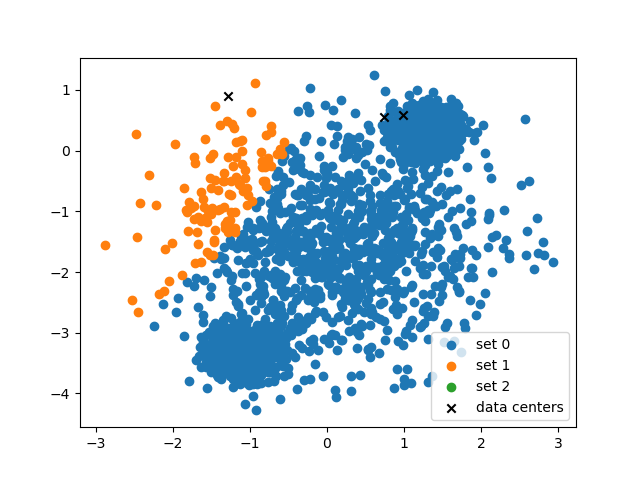
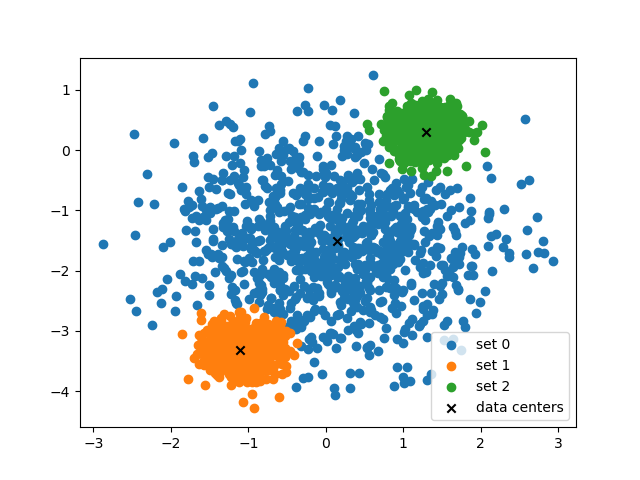
p2 code

diff --git a/a3 2/starter_gmm copy.py b/a3 2/starter_gmm copy.py
@@ -61,7 +61,8 @@ def distanceFunc(X, MU):
         # Calculate the difference between one center mu with all sample
         col = X - ones @ MU[i, :].reshape((MU[i, :].shape[0], 1)).T
         # find the norm
-        pair_dist[:, i] = np.linalg.norm(col, axis = 1)
+        pair_dist[:, i] = np.linalg.norm(col, axis = 1, ord = 1)
+    pair_dist = np.multiply(pair_dist, pair_dist)
     return pair_dist
 
 
@@ -75,42 +76,40 @@ def log_GaussPDF(X, mu, sigma):
     z = distanceFunc(X, mu)
     sigma = torch.Tensor(sigma)
     sigma = sigma.detach().numpy()
-    log_gauss = np.add(np.log(1 / ((2 * np.pi)**(X.shape[1] / 2) * (np.sum(np.exp(sigma)))**(0.5) )), - 0.5 * np.multiply(z * z, (1 / np.exp(sigma)).T))
-    log_gauss = log_gauss
-
-    """
-    z = - z * z / (2 * sigma.T * np.ones((X.shape[0], mu.shape[0])).T)
-    log_gauss = -(z + np.log(1 / (2 * np.pi * sigma)))
-    """
-
+    log_gauss = np.add(-X.shape[1] / 2 * np.log(2 * np.pi) - 0.5 * np.log(np.prod(np.exp(sigma))), - 0.5 * np.multiply(z, (1 / np.exp(sigma)).T))
     return torch.Tensor(log_gauss)
 
 
 def log_posterior(log_PDF, log_pi):
-    
-    log_pi = logsoftmax(torch.exp(log_pi))
-    print(log_pi.shape)
-    pi = torch.exp(log_pi)
-    print(torch.sum(pi))
-    temp = torch.exp(log_PDF)
-    temp = torch.sum(temp, 1).unsqueeze(1)
-    temp = torch.log(temp)
-    post = torch.add(log_PDF, log_pi.T)
-    post = torch.add(post, -temp)
-    return post
     # Input
     # log_PDF: log Gaussian PDF N X K
     # log_pi: K X 1
 
     # Outputs
     # log_post: N X K
+    real_log_pi = logsoftmax(torch.exp(log_pi))
+    post = torch.add(log_PDF, real_log_pi.T)
+    # denominator = torch.sum(torch.exp(post), dim=1)
+    # post = torch.add(post.T, - torch.log(denominator))
+    # post = post.T
+    # print(torch.sum(torch.exp(log_pi.T), dim=1))
+    return post
 
-def posterior_loss(log_posterior):
-    loss = torch.exp(log_posterior)
-    loss = torch.sum(log_posterior, dim=1)
-    loss = torch.log(log_posterior)
-    loss = torch.sum(log_posterior)
-    return loss
+def posterior_loss(X, mu, sigma, log_pi):
+    """
+    log_PDF = log_GaussPDF(X, mu, sigma)
+    loss = torch.add(log_PDF, log_pi.T)
+    loss = - torch.sum(loss)
+    """
+    log_PDF = log_GaussPDF(X, mu, sigma)
+    log_post = log_posterior(log_PDF, log_pi)
+
+    loss = torch.exp(log_post)
+    loss = torch.sum(loss, dim=1)
+    loss = torch.log(loss)
+    loss = torch.sum(loss)
+    loss = - loss
+    return loss 
 
 def one_K_cluster(x_matrix, k=3):
 
@@ -127,10 +126,10 @@ def one_K_cluster(x_matrix, k=3):
     s_avg = torch.zeros((k, 1))
     s_std = torch.ones(k, 1)
     sigma = torch.normal(s_avg, s_std)
-    sigma = torch.exp(sigma)
-    pi = torch.normal(s_avg, s_std)
-    pi = softmax(pi)
-    log_pi = torch.log(pi)
+    sigma = torch.ones(k, 1)
+    pi = torch.ones(k, 1)
+    pi = pi / k
+    log_pi = logsoftmax(pi)
 
     MU.requires_grad = True
     sigma.requires_grad = True
@@ -140,16 +139,7 @@ def one_K_cluster(x_matrix, k=3):
     data = torch.tensor(data)
 
     # set up optimizer
-    optimizer = torch.optim.Adam(
-        [
-            {
-                "params": [MU, sigma, log_pi],
-                "lr": 0.1,
-                "betas": (0.9, 0.99),
-                "eps": 1 * 10 ** -5,
-            }
-        ]
-    )
+    optimizer = torch.optim.Adam([MU, sigma, log_pi], lr=0.1)
 
     losses = []
     for epoch in range(0, num_of_epochs):
@@ -161,29 +151,32 @@ def one_K_cluster(x_matrix, k=3):
         log_pi = torch.log(pi)
         log_pi.requires_grad = True
         """
-        optimizer.zero_grad()  # elimiate the gradient from last iteration
-        gaussPDF = log_GaussPDF(data, MU, sigma)
-        log_post = log_posterior(gaussPDF, log_pi)  # calculate loss
-        loss = posterior_loss(log_post)
+        optimizer.zero_grad()  # eliminate the gradient from last iteration
+        loss = posterior_loss(data, MU, sigma, log_pi)
         loss.backward()  # backprop gradient
+        print(loss)
         optimizer.step()  # update
         losses.append(loss.item())
     # plot_losses([losses], ["K = " + str(k)], save_name="1_1_loss")
+    
+    return [MU, sigma, log_pi]
 
-    return [MU, sigma, pi]
 
-
-def calculateOwnerShipPercentage(X, MU, sigma, pi):
+def calculateOwnerShipPercentage(X, MU, sigma, log_pi):
     k = MU.shape[0]
     gaussPDF = log_GaussPDF(X, MU, sigma)
-    pi = torch.tensor(pi)
-    log_post = log_posterior(gaussPDF, pi)
-    ownership = np.argmin(log_post, axis=1)
+    log_pi = torch.tensor(log_pi)
+    log_post = log_posterior(gaussPDF, log_pi)
+    ownership = np.argmin(-log_post, axis=1)
     percentages = np.zeros((k,))
     for item in ownership:
         percentages[item] = percentages[item] + 1
     percentages = percentages / percentages.sum()
 
+    print("X", X)
+    print("MU", MU)
+    print("sigma", np.exp(sigma))
+    print("pi", torch.exp(logsoftmax(torch.exp(log_pi))))
     print(percentages)
     return ownership
 

diff --git a/a3 2/starter_gmm.py b/a3 2/starter_gmm.py
@@ -52,18 +52,25 @@ def distanceFunc(X, MU):
     # MU: is an KxD matrix (K means and D dimensions)
     # Outputs
     # pair_dist: is the squared pairwise distance matrix (NxK)
-    MU = torch.Tensor(MU)
-    MU = MU.detach().numpy()
-
+    # TODO
     pair_dist = np.zeros((X.shape[0], MU.shape[0]))
     ones = np.ones((X.shape[0], 1))
     for i in range(0, MU.shape[0]):
-        # Calculate the difference between one center mu with all sample
-        col = X - ones @ MU[i, :].reshape((MU[i, :].shape[0], 1)).T
-        # find the norm
-        pair_dist[:, i] = np.linalg.norm(col, axis = 1)
+      # Calculate the difference between one center mu with all sample
+      col = X - ones @ MU[i, :].reshape((MU[i, :].shape[0], 1)).T
+      # find the norm
+      pair_dist[:, i] = np.linalg.norm(col, axis = 1)
+    # square the norm since the requirement calls for squared distance
     pair_dist = np.multiply(pair_dist, pair_dist)
     return pair_dist
+
+def distance_func_torch(X, MU):
+  pair_dist = torch.zeros((X.size()[0], MU.size()[0]))
+  ones = torch.ones((X.size()[0], 1))
+  for i in range(0, MU.size()[0]):
+    col = X - torch.mm(ones, MU[i, :].reshape((MU[i, :].size()[0], 1)).T)
+    pair_dist[:, i] = col.norm(dim = 1)
+  return pair_dist
 
 
 def log_GaussPDF(X, mu, sigma):
@@ -73,11 +80,11 @@ def log_GaussPDF(X, mu, sigma):
     # sigma: K X 1
     # Outputs:
     # log Gaussian PDF N X K
-    z = distanceFunc(X, mu)
-    sigma = torch.Tensor(sigma)
-    sigma = sigma.detach().numpy()
-    log_gauss = np.add(-X.shape[1] / 2 * np.log(2 * np.pi) - 0.5 * np.log(np.prod(np.exp(sigma))), - 0.5 * np.multiply(z, (1 / np.exp(sigma)).T))
-    return torch.Tensor(log_gauss)
+    k = mu.shape[0]
+    z = distance_func_torch(X, mu)
+    log_gauss = torch.add(-X.shape[1] / 2 * np.log(2 * np.pi), - k / 2 * sigma)
+    log_gauss = torch.add(log_gauss.T, - 0.5 * torch.mul(z, (1 / torch.exp(sigma)).T))   
+    return log_gauss
 
 
 def log_posterior(log_PDF, log_pi):
@@ -103,6 +110,7 @@ def posterior_loss(X, mu, sigma, log_pi):
     """
     log_PDF = log_GaussPDF(X, mu, sigma)
     log_post = log_posterior(log_PDF, log_pi)
+
     loss = torch.exp(log_post)
     loss = torch.sum(loss, dim=1)
     loss = torch.log(loss)
@@ -138,16 +146,7 @@ def one_K_cluster(x_matrix, k=3):
     data = torch.tensor(data)
 
     # set up optimizer
-    optimizer = torch.optim.Adam(
-        [
-            {
-                "params": [MU, sigma, log_pi],
-                "lr": 0.1,
-                "betas": (0.9, 0.99),
-                "eps": 1 * 10 ** -5,
-            }
-        ]
-    )
+    optimizer = torch.optim.Adam([MU, sigma, log_pi], lr=0.1)
 
     losses = []
     for epoch in range(0, num_of_epochs):
@@ -162,18 +161,21 @@ def one_K_cluster(x_matrix, k=3):
         optimizer.zero_grad()  # eliminate the gradient from last iteration
         loss = posterior_loss(data, MU, sigma, log_pi)
         loss.backward()  # backprop gradient
+        print(loss)
         optimizer.step()  # update
         losses.append(loss.item())
     # plot_losses([losses], ["K = " + str(k)], save_name="1_1_loss")
-
+    
     return [MU, sigma, log_pi]
 
 
 def calculateOwnerShipPercentage(X, MU, sigma, log_pi):
+    X = torch.tensor(X)
     k = MU.shape[0]
     gaussPDF = log_GaussPDF(X, MU, sigma)
     log_pi = torch.tensor(log_pi)
     log_post = log_posterior(gaussPDF, log_pi)
+    log_post = log_post.detach().numpy()
     ownership = np.argmin(-log_post, axis=1)
     percentages = np.zeros((k,))
     for item in ownership:
@@ -182,7 +184,7 @@ def calculateOwnerShipPercentage(X, MU, sigma, log_pi):
 
     print("X", X)
     print("MU", MU)
-    print("sigma", np.exp(sigma))
+    print("sigma", torch.exp(sigma))
     print("pi", torch.exp(logsoftmax(torch.exp(log_pi))))
     print(percentages)
     return ownership
@@ -217,8 +219,8 @@ if __name__ == "__main__":
         plt.clf()
         plt.cla()
         [mu, sigma, log_pi] = one_K_cluster(data, k)
-        mu = mu.detach().numpy()
-        sigma = sigma.detach().numpy()
-        log_pi = log_pi.detach().numpy()
+        # sigma = sigma.detach().numpy()
+        # log_pi = log_pi.detach().numpy()
         ownership = calculateOwnerShipPercentage(val_data, mu, sigma, log_pi)
+        mu = mu.detach().numpy()
         plot_scatter(val_data, ownership, mu, k)
